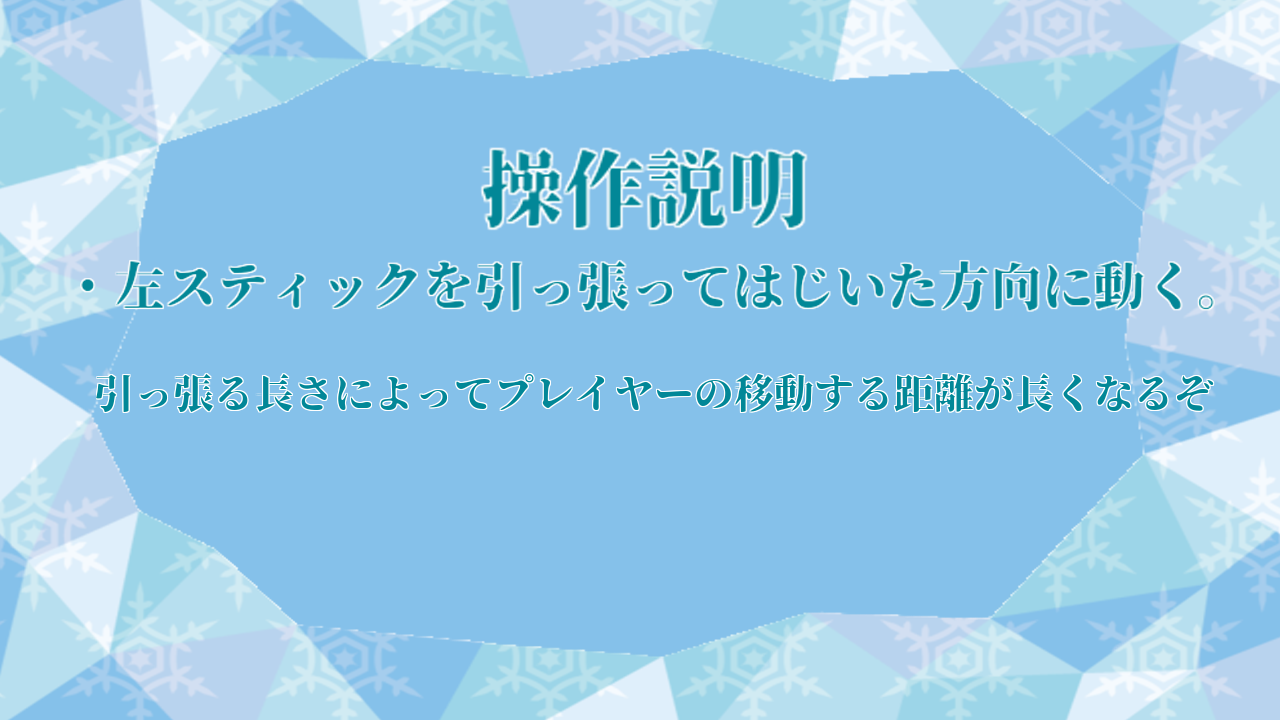
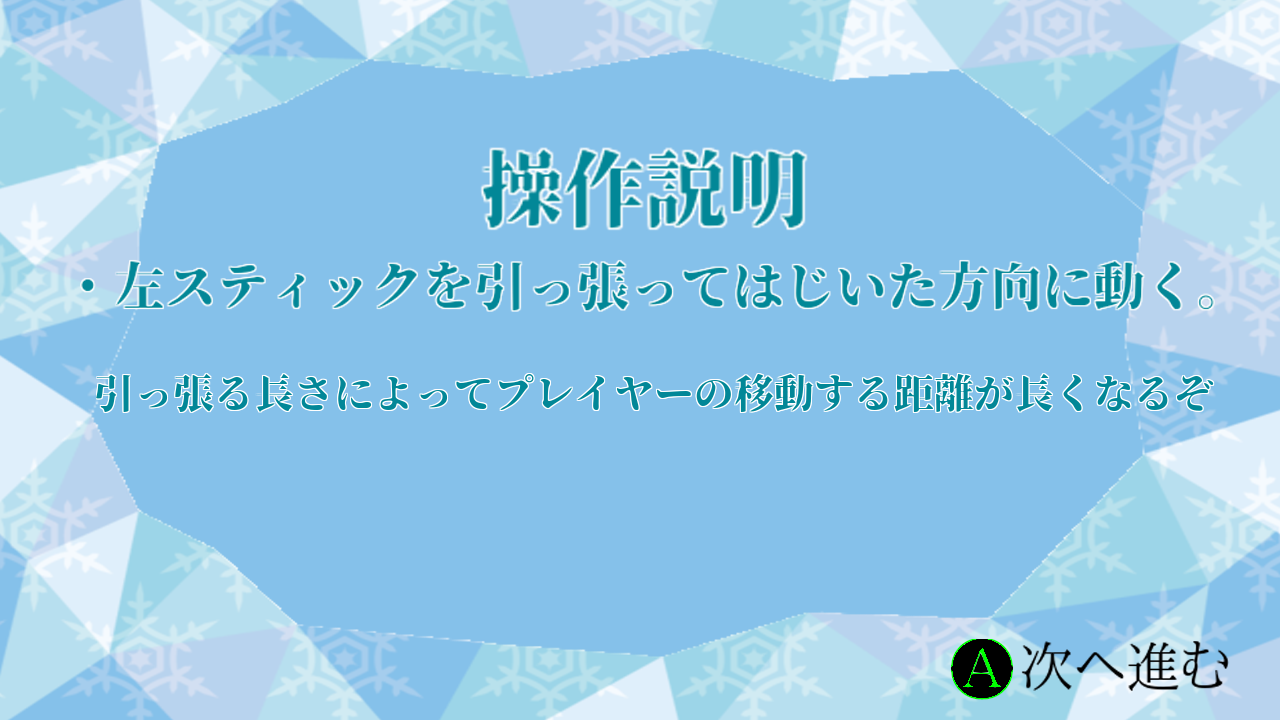
途中

Changed region(s): [[0.7188, 0.8861, 0.9688, 0.9778]]

diff --git a/scene/GameScene.cpp b/scene/GameScene.cpp
@@ -51,8 +51,8 @@ void GameScene::Initialize() {
 	MediumSprite_.reset(Sprite::Create(MediumTexture_, { 0, 0 }));
 	SmallSprite_.reset(Sprite::Create(SmallTexture_, { 0, 0 }));
 
-	viewProjection_.translation_ = { 0.0f,130.0f,0.0f };
-	viewProjection_.rotation_ = { -11.0f,0.0f,0.0f };
+	viewProjection_.translation_ = { 0,167.0f,8.0f };
+	viewProjection_.rotation_ = { -11.0f,0,0 };
 	// ビュープロジェクションの初期化
 	viewProjection_.Initialize();
 
@@ -132,7 +132,6 @@ void GameScene::Initialize() {
 	warp2_ = std::make_unique<Warp2>();
 	warp2_->Initialize(modelwarp_.get());
 
-	
 	
 	// 3Dモデルの生成
 	modelSkydome_.reset(Model::CreateFromOBJ("Skydome", true));
@@ -300,6 +299,7 @@ void GameScene::Update() {
 			}
 			UpdateTutorialGoalBlackPopCommands();
 
+			//Xボタンを押すと全マップが見える処理
 			if (Input::GetInstance()->GetJoystickState(0, joyState)) {
 				if (Input::GetInstance()->GetJoystickStatePrevious(0, prejoyState)) {
 					if (joyState.Gamepad.wButtons & XINPUT_GAMEPAD_X &&
@@ -323,7 +323,7 @@ void GameScene::Update() {
 			}
 
 			if (IsFullMapCamera == true) {
-				viewProjection_.translation_ = { 0,130.0f,0 };
+				viewProjection_.translation_ = { 0,167.0f,8.0f };
 				viewProjection_.rotation_ = { -11.0f,0,0 };
 			}
 
